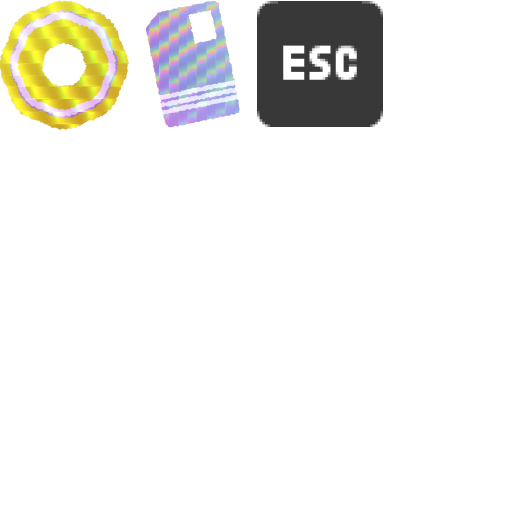
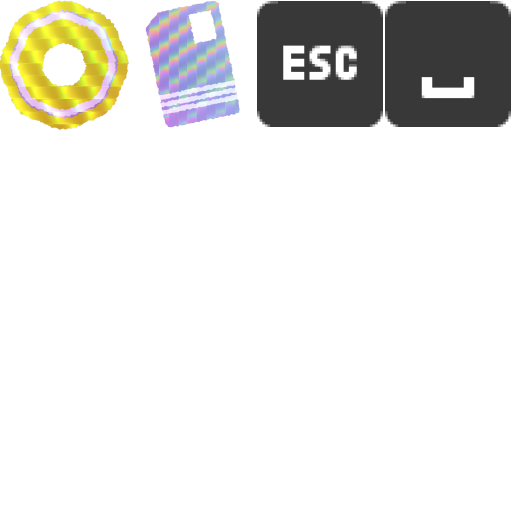
Add : can't get items out of right screen

Changed region(s): [[0.75, 0.0, 1.0, 0.25]]

diff --git a/Assets/Scripts/Game/DraggableBehavior.cs b/Assets/Scripts/Game/DraggableBehavior.cs
@@ -1,5 +1,6 @@
 using DG.Tweening;
 using UnityEngine;
+using UnityEngine.Rendering.Universal;
 
 public class DraggableBehavior : ItemBehavior
 {
@@ -44,7 +45,9 @@ public class DraggableBehavior : ItemBehavior
             Vector3 mouseWorldPosition = Camera.main.ScreenToWorldPoint(Input.mousePosition);
             transform.position = mouseWorldPosition + _dragOffset;
 
-            if (GameManager.Instance.UIManager.DepotOverCheck.IsOver() && GameManager.Instance.CurrentGameState != GameManager.Instance.PreparationState)
+            if ((GameManager.Instance.UIManager.DepotOverCheck.IsOver() 
+                || (Input.mousePosition.x >= Screen.width && Input.mousePosition.y >= 0 && Input.mousePosition.y <= Screen.height)) 
+                        && GameManager.Instance.CurrentGameState != GameManager.Instance.PreparationState)
             {
                 if (GameManager.Instance.ScavengingState.SelectedItemList.Count + 1 > GameManager.Instance.GetDepotSize()) _sellIcon.color = Color.grey;
                 else _sellIcon.color = Color.green;
@@ -167,8 +170,23 @@ public class DraggableBehavior : ItemBehavior
         }
         else if (!GameManager.Instance.UIManager.CrateOverCheck.IsOver())
         {
-            DestroyItem();
-            AudioManager.Instance.PlaySFXSound(_trashItemSound);
+            if (Input.mousePosition.x >= Screen.width && Input.mousePosition.y >= 0 && Input.mousePosition.y <= Screen.height)
+            {
+                if (GameManager.Instance.ScavengingState.TryAddItemToSelectedList(this))
+                {
+                    DropItem();
+                    AudioManager.Instance.PlaySFXSound(_addToTicketSound);
+                }
+                else
+                {
+                    GoBackToDumpster();
+                }
+            }
+            else
+            {
+                DestroyItem();
+                AudioManager.Instance.PlaySFXSound(_trashItemSound);
+            }
         }
         else
         {

diff --git a/Assets/Plugins/RuntimeDebugAction/Runtime/Systems/RuntimeDebugSystem.cs b/Assets/Plugins/RuntimeDebugAction/Runtime/Systems/RuntimeDebugSystem.cs
@@ -4,7 +4,6 @@ using BennyKok.RuntimeDebug.Components.UI;
 using BennyKok.RuntimeDebug.Data;
 using BennyKok.RuntimeDebug.DebugInput;
 using BennyKok.RuntimeDebug.Utils;
-using Codice.Client.BaseCommands.BranchExplorer;
 using System;
 using System.Collections.Generic;
 using System.Linq;
